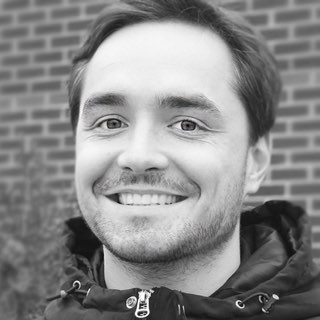
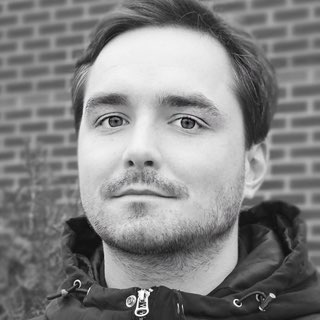
continue responsive

diff --git a/src/components/About/Social/index.js b/src/components/About/Social/index.js
@@ -1,8 +1,11 @@
 import React from 'react';
 import Avatar from 'material-ui/Avatar';
 
+import './style.css';
 import me from './me.jpg';
 import me2x from './me@2x.jpg';
+import meSmile from './me-smile.jpg';
+import meSmile2x from './me-smile@2x.jpg';
 import GitHubIcon from '../../_icons/GitHubIcon';
 import LinkedInIcon from '../../_icons/LinkedInIcon';
 import GlyphsIcon from '../../_icons/GlyphsIcon';
@@ -20,9 +23,7 @@ const links = [
 const styles = {
     avatar: {
         width: 'auto',
-        height: 'auto',
-        maxWidth: 320,
-        marginBottom: 20
+        height: 'auto'
     }
 };
 
@@ -30,7 +31,10 @@ export default function Social() {
     return (
         <section className="social section section_bg-color_green">
             <div className="f fd-c ai-c jc-c">
-                <Avatar src={me} srcSet={`${me2x} 2x`} style={styles.avatar} />
+                <div className="social__avatar">
+                    <Avatar src={me} srcSet={`${me2x} 2x`} style={styles.avatar} />
+                    <Avatar className="social__secret" src={meSmile} srcSet={`${meSmile2x} 2x`} style={styles.avatar} />
+                </div>
                 <SocialLinks isRound {...{links}} />
             </div>
         </section>

diff --git a/src/components/About/Social/style.scss b/src/components/About/Social/style.scss
@@ -1,0 +1,21 @@
+@import 'styles/variables';
+
+.social__avatar {
+  position: relative;
+  max-width: 320px;
+  border-radius: 50%;
+  margin-bottom: 20px;
+  cursor: pointer;
+}
+
+.social__secret {
+  @include transit(opacity, $standard);
+  position: absolute !important;
+  top: 0;
+  left: 0;
+  opacity: 0;
+
+  .social__avatar:hover > & {
+    opacity: 1;
+  }
+}
